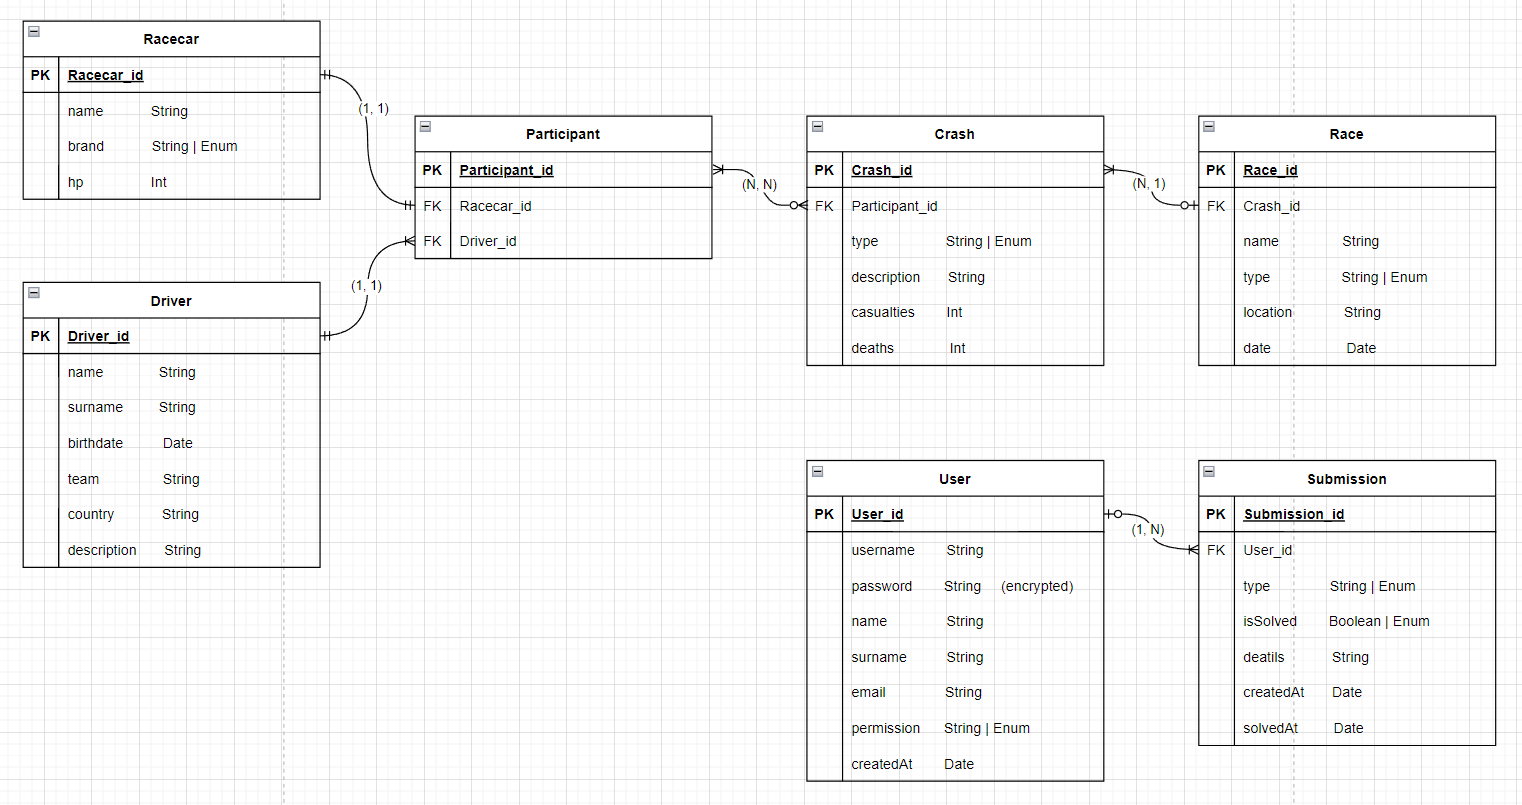
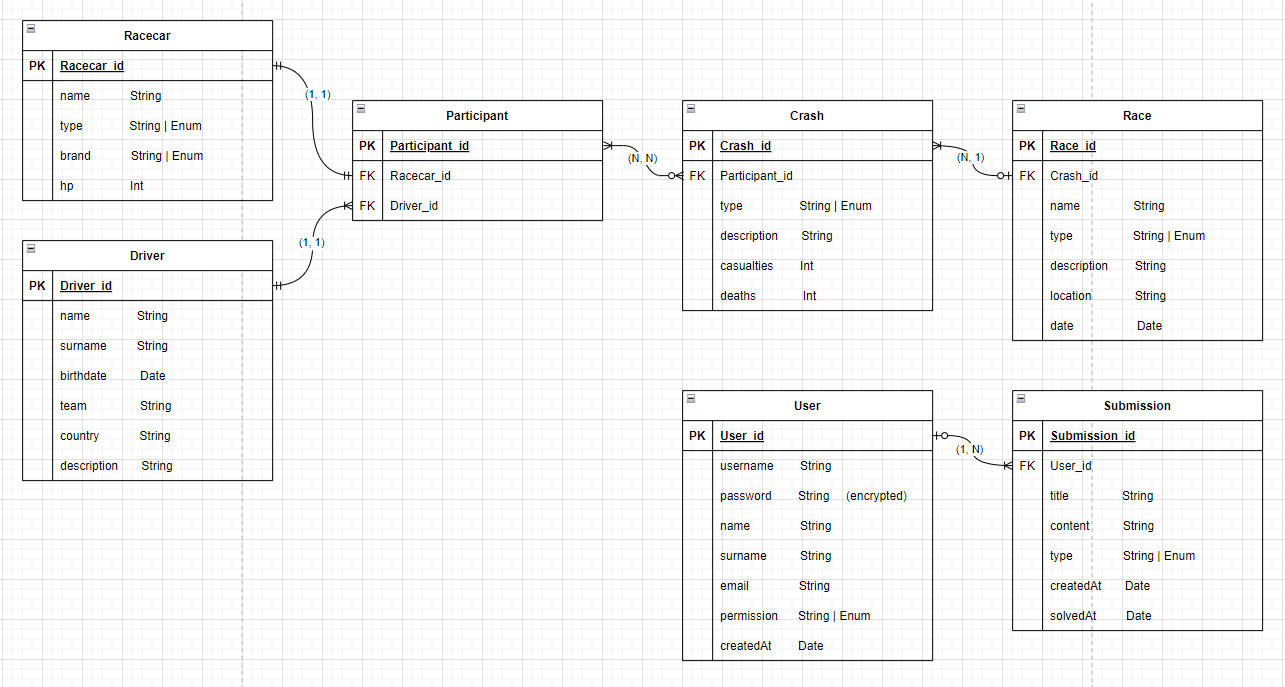
database submission fix

diff --git a/back-end/model/submission.ts b/back-end/model/submission.ts
@@ -1,0 +1,104 @@
+import { Submission as SubmissionPrisma, User } from "@prisma/client";
+
+export class Submission {
+    public id?: number;
+    private title: string;
+    private content: string;
+    private type: string;
+    private createdAt: Date;
+    private solvedAt?: Date;
+    private createdBy: User;
+
+    constructor(submission: { title: string, content: string, type: string, createdAt: Date, createdBy: User, solvedAt?: Date, id?: number }) {
+        this.validate(submission);
+
+        this.title = submission.title;
+        this.content = submission.content;
+        this.type = submission.type;
+        this.createdAt = submission.createdAt;
+        this.createdBy = submission.createdBy;
+        if (submission.solvedAt) this.solvedAt = submission.solvedAt;
+        if (submission.id) this.id = submission.id;
+    }
+
+    private validate(submission: { title: string, content: string, type: string, createdAt: Date, createdBy: User, id?: number }): void {
+        if (!submission.title) {
+            throw new Error('Title is required');
+        }
+        if (!submission.content) {
+            throw new Error('Content is required');
+        }
+        if (!submission.type) {
+            throw new Error('Type is required');
+        }
+        if (!submission.createdAt) {
+            throw new Error('createdAt is required');
+        }
+        if (!submission.createdBy) {
+            throw new Error('createdBy is required');
+        }
+    }
+
+    getId(): number | undefined {
+        return this.id;
+    }
+
+    getTitle(): string {
+        return this.title;
+    }
+
+    getContent(): string {
+        return this.content;
+    }
+
+    getType(): string {
+        return this.type;
+    }
+
+    getCreatedAt(): Date {
+        return this.createdAt;
+    }
+
+    getSolvedAt(): Date | undefined {
+        return this.solvedAt;
+    }
+
+    getCreatedBy(): User {
+        return this.createdBy;
+    }
+
+    equals(other: Submission): boolean {
+        return (
+            this.id === other.id &&
+            this.title === other.title &&
+            this.content === other.content &&
+            this.type === other.type &&
+            this.createdAt === other.createdAt &&
+            this.solvedAt === other.solvedAt &&
+            this.createdBy === other.createdBy
+        );
+    }
+
+    static from ({
+        id,
+        title,
+        content,
+        type,
+        createdAt,
+        solvedAt,
+        createdBy
+    }: SubmissionPrisma & {
+        createdBy: User
+        solvedAt?: Date
+    }) {
+        return new Submission({
+            id,
+            title,
+            content,
+            type,
+            createdAt,
+            solvedAt,
+            createdBy
+        });
+    }
+}

diff --git a/back-end/util/seed.ts b/back-end/util/seed.ts
@@ -172,7 +172,6 @@ const main = async () => {
             title: 'Race Application 1',
             content: 'This is the first race application form.',
             type: 'Formula 1',
-            isSolved: false,
             createdAt: new Date(),
             user: {
                 connect: { id: 1 }
@@ -185,7 +184,6 @@ const main = async () => {
             title: 'Race Application 3',
             content: 'This is the third race application form.',
             type: 'Formula 1',
-            isSolved: false,
             createdAt: new Date(),
             user: {
                 connect: { id: 1 }
@@ -198,7 +196,6 @@ const main = async () => {
             title: 'Add max verstappen',
             content: 'he crashed at turn 3 on the 12th of may 2021. Some other info here',
             type: 'Crash',
-            isSolved: true,
             createdAt: new Date(new Date().setDate(new Date().getDate() - 1)),
             solvedAt: new Date(),
             user: {

diff --git a/back-end/test/service/submission_form.service.test.ts b/back-end/test/service/submission_form.service.test.ts
@@ -1,6 +1,6 @@
 import submissionFormService from '../../service/submission_form.service';
 import submissionFormDb from '../../repository/submission.db';
-import { SubmissionForm } from '../../model/submission_form';
+import { SubmissionForm } from '../../model/submission';
 import { Gebruiker } from '../../model/user';
 import { Race } from '../../model/race';
 import { Driver } from '../../model/driver';

diff --git a/back-end/service/submission_form.service.ts b/back-end/service/submission_form.service.ts
@@ -1,5 +1,5 @@
 import submissionFormDb from '../repository/submission.db';
-import { SubmissionForm } from '../model/submission_form';
+import { SubmissionForm } from '../model/submission';
 import RaceService from './race.service';
 import { RaceInput, DriverInput, CrashInput, AdminInput } from '../types';
 

diff --git a/back-end/test/model/Submission_form.test.ts b/back-end/test/model/Submission_form.test.ts
@@ -1,4 +1,4 @@
-import { SubmissionForm } from '../../model/submission_form';
+import { SubmissionForm } from '../../model/submission';
 import { Gebruiker } from '../../model/user';
 import { Race } from '../../model/race';
 import { Admin } from '../../model/admin';

diff --git a/back-end/repository/submission.db.ts b/back-end/repository/submission.db.ts
@@ -1,4 +1,4 @@
-import { SubmissionForm } from '../model/submission_form';
+import { SubmissionForm } from '../model/submission';
 import { Race } from '../model/race';
 import { Driver } from '../model/driver';
 import { Crash } from '../model/crash';
